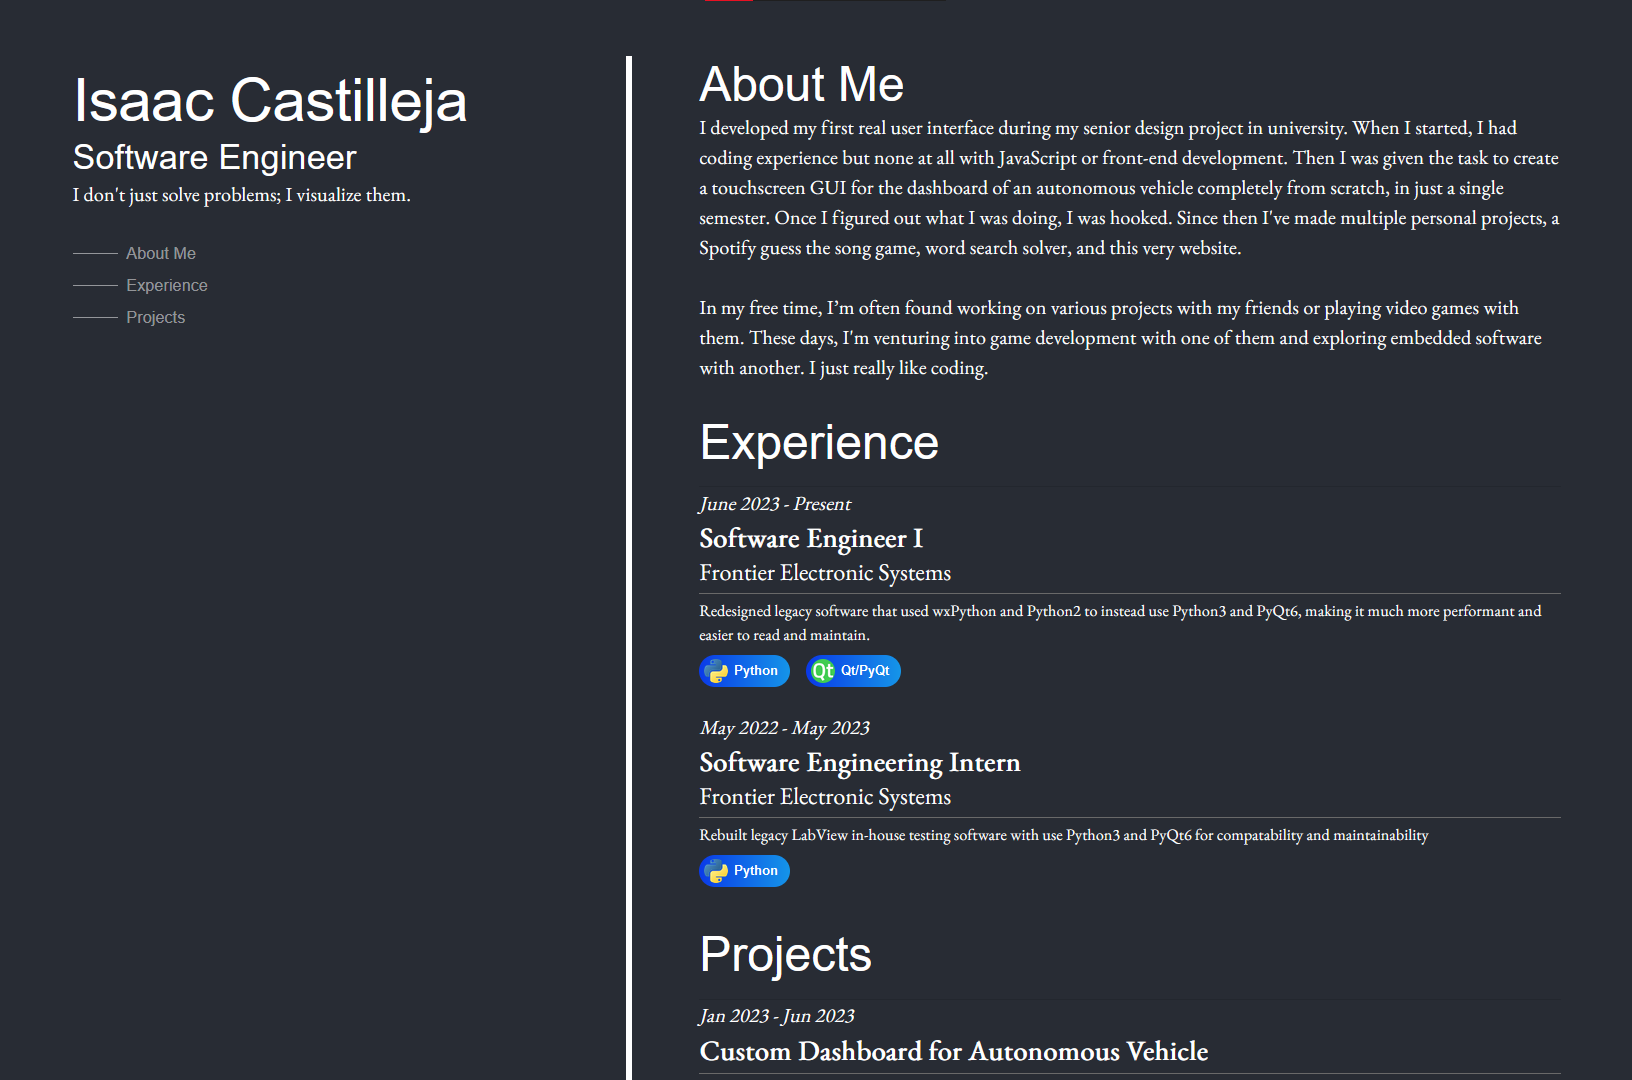
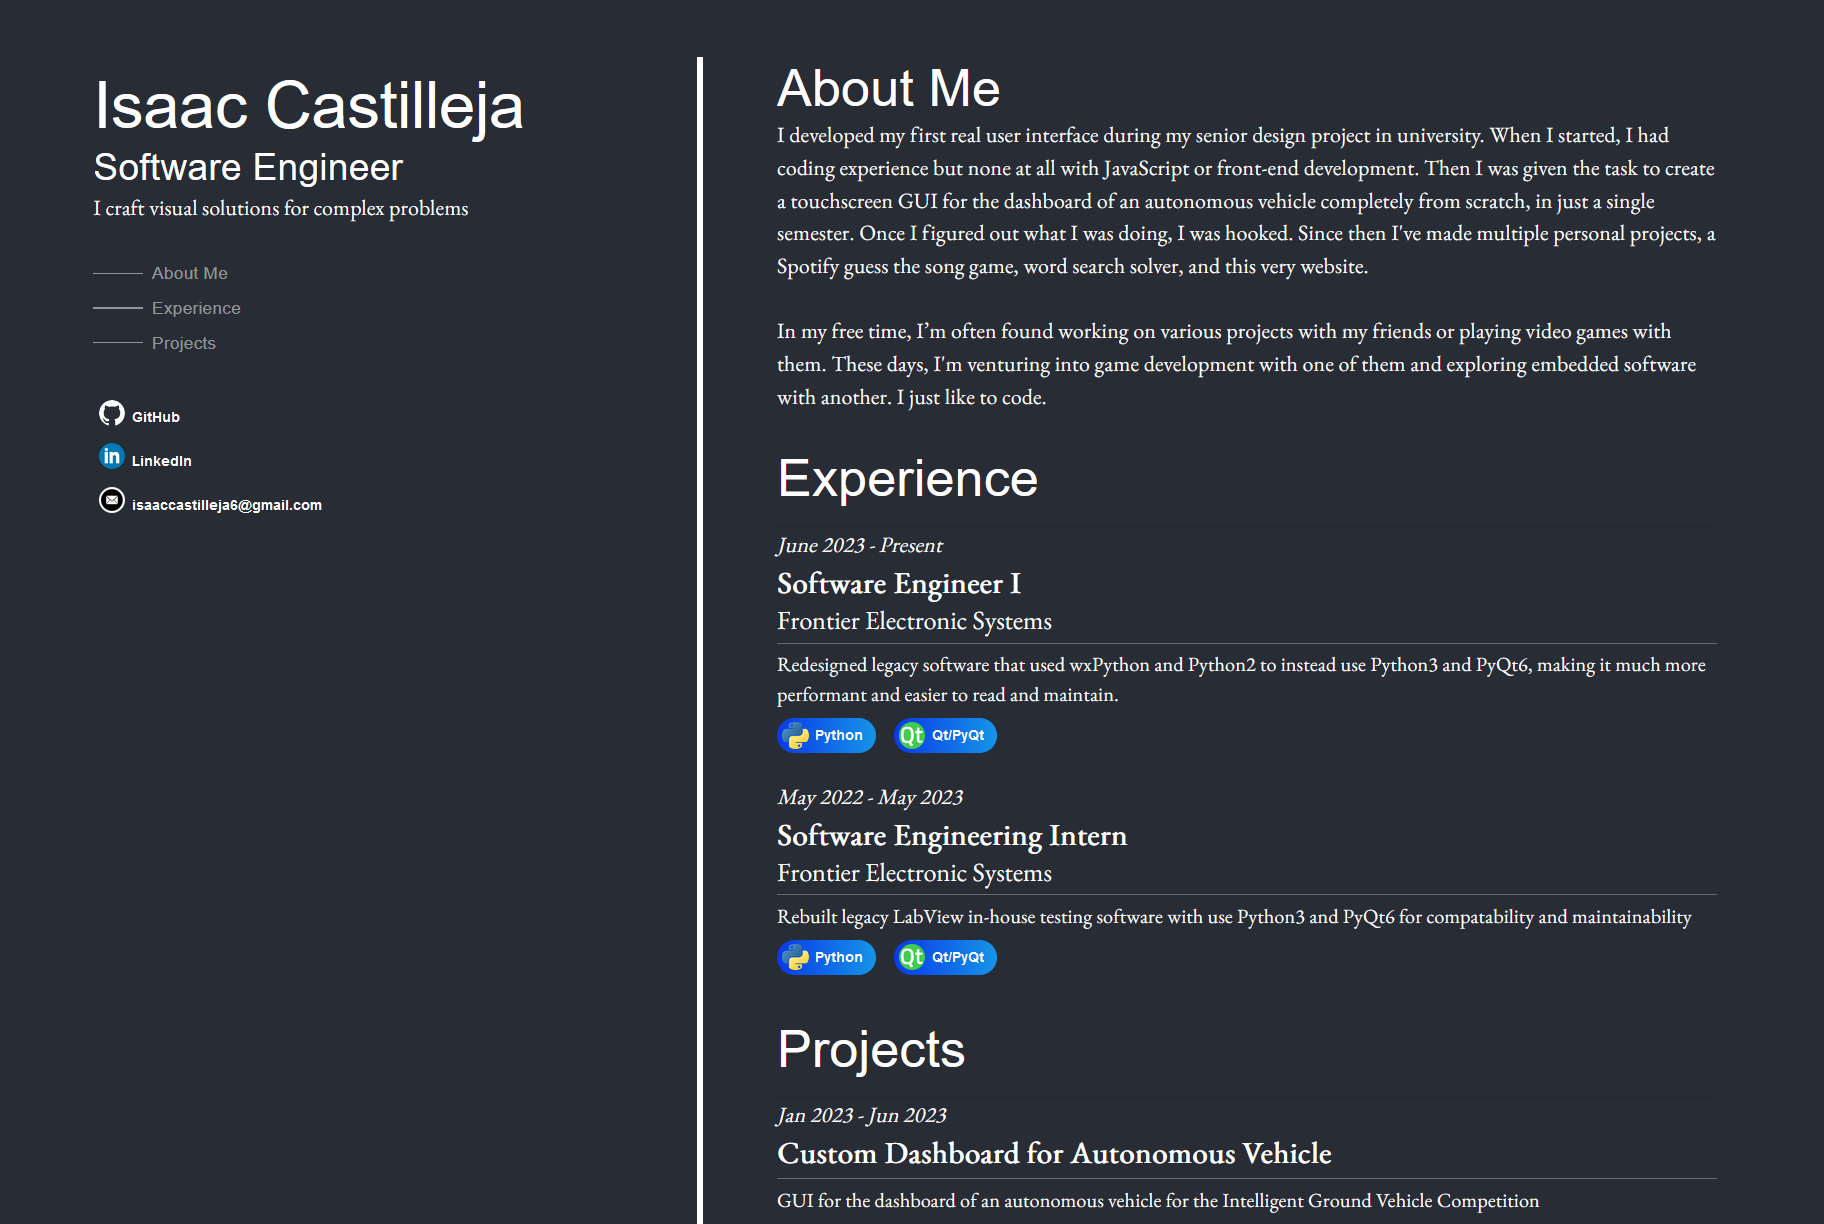
First real iteration of website

diff --git a/src/Components/Me.tsx b/src/Components/Me.tsx
@@ -1,9 +1,13 @@
-import {Stack} from "@mui/material";
+import {Avatar, Chip, Link, Stack} from "@mui/material";
 import Typography from "@mui/material/Typography";
 import React from "react";
 import {useTheme} from "@mui/material/styles";
 import useMediaQuery from "@mui/material/useMediaQuery";
 import {JumpLinks} from "./JumpLinks";
+
+import GitHubLogo from "../assets/github-mark-white.svg";
+import LinkedInLogo from "../assets/linkedIn.png";
+import emailIcon from "../assets/emailIcon.jpg";
 
 export function Me() {
     const theme = useTheme();
@@ -17,6 +21,44 @@ export function Me() {
             I craft visual solutions for complex problems
             </Typography>
             <JumpLinks></JumpLinks>
+            <Stack gap={1}>
+                <Link href="https://github.com/IsaacCastilleja" underline={"none"}>
+                    <Chip
+                        avatar={<Avatar alt={"G"} src={GitHubLogo}/>}
+                        label={"GitHub"}
+                        sx={{
+                            alignItems: "end",
+                            color: "#ffffff",
+                            fontWeight: "bolder",
+                            background: "transparent"
+                        }}
+                    />
+                </Link>
+                <Link href="https://www.linkedin.com/in/isaac-castilleja-760a0b187" underline={"none"}>
+                    <Chip
+                        avatar={<Avatar alt={"G"} src={LinkedInLogo}/>}
+                        label={"LinkedIn"}
+                        sx={{
+                            alignItems: "end",
+                            color: "#ffffff",
+                            fontWeight: "bolder",
+                            background: "transparent"
+                        }}
+                    />
+                </Link>
+                <Link href="mailto:isaaccastilleja6@gmail.com" underline={"none"}>
+                    <Chip
+                        avatar={<Avatar alt={"E"} src={emailIcon}/>}
+                        label={"isaaccastilleja6@gmail.com"}
+                        sx={{
+                            alignItems: "end",
+                            color: "#ffffff",
+                            fontWeight: "bolder",
+                            background: "transparent"
+                        }}
+                    />
+                </Link>
+            </Stack>
         </Stack>
     );
 }
